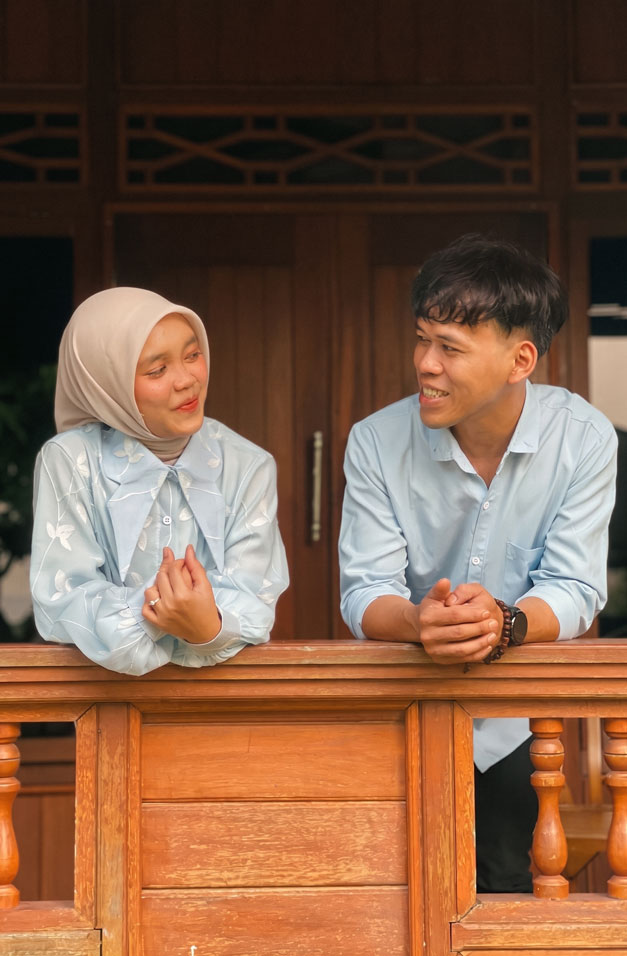
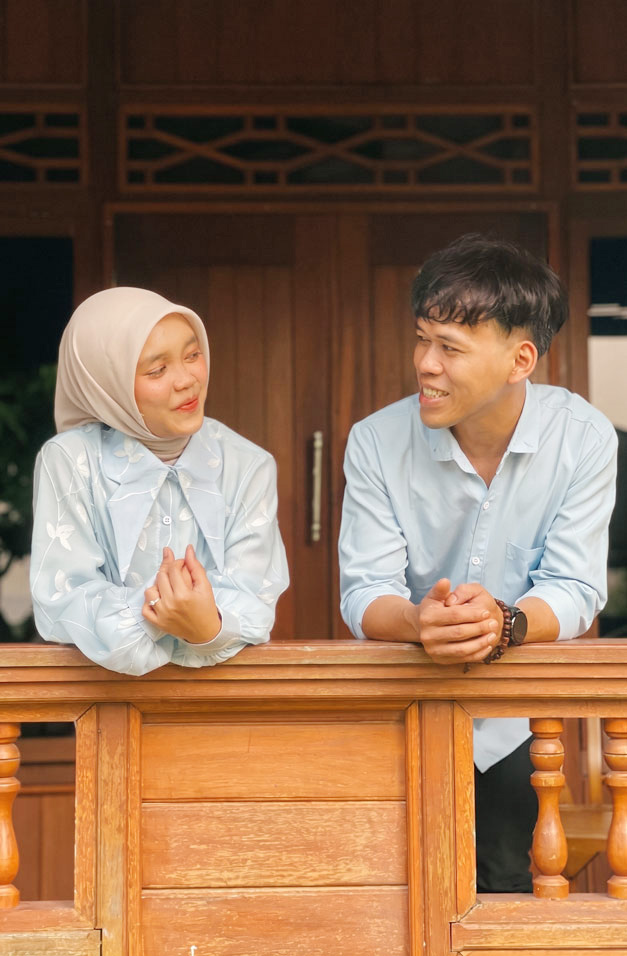
Update modified gallery images and add cache busting

diff --git a/index.html b/index.html
@@ -1007,32 +1007,32 @@
     <h2 class="accent-text" data-aos="fade-up">Galeri Foto</h2>
     <div class="gallery-slider-container" data-aos="zoom-in">
       <div class="gallery-thumbnails">
-        <img src="assets/edit1.jpg?v=3" onclick="changeSlide(0)" class="thumb active">
-        <img src="assets/EDIT2.jpg?v=3" onclick="changeSlide(1)" class="thumb">
-        <img src="assets/edit3.jpg?v=3" onclick="changeSlide(2)" class="thumb">
-        <img src="assets/edit4.jpg?v=3" onclick="changeSlide(3)" class="thumb">
-        <img src="assets/edit5.jpg?v=3" onclick="changeSlide(4)" class="thumb">
-        <img src="assets/edit6.jpg?v=3" onclick="changeSlide(5)" class="thumb">
-        <img src="assets/edit7.jpg?v=3" onclick="changeSlide(6)" class="thumb">
-        <img src="assets/edit8.jpeg?v=3" onclick="changeSlide(7)" class="thumb">
-        <img src="assets/edit9.jpg?v=3" onclick="changeSlide(8)" class="thumb">
-        <img src="assets/edit10.jpg?v=3" onclick="changeSlide(9)" class="thumb">
-        <img src="assets/edit11.jpg?v=3" onclick="changeSlide(10)" class="thumb">
+        <img src="assets/edit1.jpg?v=4" onclick="changeSlide(0)" class="thumb active">
+        <img src="assets/EDIT2.jpg?v=4" onclick="changeSlide(1)" class="thumb">
+        <img src="assets/edit3.jpg?v=4" onclick="changeSlide(2)" class="thumb">
+        <img src="assets/edit4.jpg?v=4" onclick="changeSlide(3)" class="thumb">
+        <img src="assets/edit5.jpg?v=4" onclick="changeSlide(4)" class="thumb">
+        <img src="assets/edit6.jpg?v=4" onclick="changeSlide(5)" class="thumb">
+        <img src="assets/edit7.jpg?v=4" onclick="changeSlide(6)" class="thumb">
+        <img src="assets/edit8.jpeg?v=4" onclick="changeSlide(7)" class="thumb">
+        <img src="assets/edit9.jpg?v=4" onclick="changeSlide(8)" class="thumb">
+        <img src="assets/edit10.jpg?v=4" onclick="changeSlide(9)" class="thumb">
+        <img src="assets/edit11.jpg?v=4" onclick="changeSlide(10)" class="thumb">
       </div>
       <div class="gallery-main">
         <button class="slider-btn prev-btn" onclick="prevSlide()"><i class="fas fa-chevron-left"></i></button>
         <div class="gallery-slider-track" id="slider-track">
-          <img src="assets/edit1.jpg?v=3" alt="Gallery Main 1">
-          <img src="assets/EDIT2.jpg?v=3" alt="Gallery Main 2">
-          <img src="assets/edit3.jpg?v=3" alt="Gallery Main 3">
-          <img src="assets/edit4.jpg?v=3" alt="Gallery Main 4">
-          <img src="assets/edit5.jpg?v=3" alt="Gallery Main 5">
-          <img src="assets/edit6.jpg?v=3" alt="Gallery Main 6">
-          <img src="assets/edit7.jpg?v=3" alt="Gallery Main 7">
-          <img src="assets/edit8.jpeg?v=3" alt="Gallery Main 8">
-          <img src="assets/edit9.jpg?v=3" alt="Gallery Main 9">
-          <img src="assets/edit10.jpg?v=3" alt="Gallery Main 10">
-          <img src="assets/edit11.jpg?v=3" alt="Gallery Main 11">
+          <img src="assets/edit1.jpg?v=4" alt="Gallery Main 1">
+          <img src="assets/EDIT2.jpg?v=4" alt="Gallery Main 2">
+          <img src="assets/edit3.jpg?v=4" alt="Gallery Main 3">
+          <img src="assets/edit4.jpg?v=4" alt="Gallery Main 4">
+          <img src="assets/edit5.jpg?v=4" alt="Gallery Main 5">
+          <img src="assets/edit6.jpg?v=4" alt="Gallery Main 6">
+          <img src="assets/edit7.jpg?v=4" alt="Gallery Main 7">
+          <img src="assets/edit8.jpeg?v=4" alt="Gallery Main 8">
+          <img src="assets/edit9.jpg?v=4" alt="Gallery Main 9">
+          <img src="assets/edit10.jpg?v=4" alt="Gallery Main 10">
+          <img src="assets/edit11.jpg?v=4" alt="Gallery Main 11">
         </div>
         <button class="slider-btn next-btn" onclick="manualNextSlide()"><i class="fas fa-chevron-right"></i></button>
       </div>
